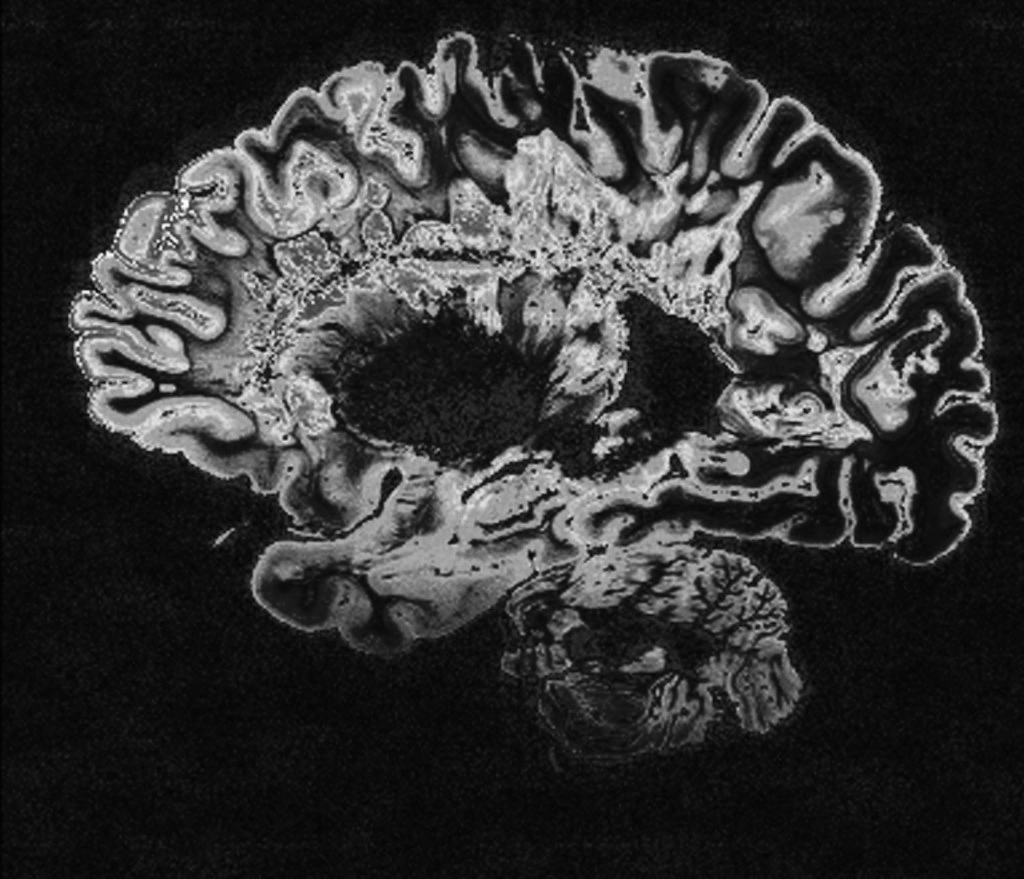
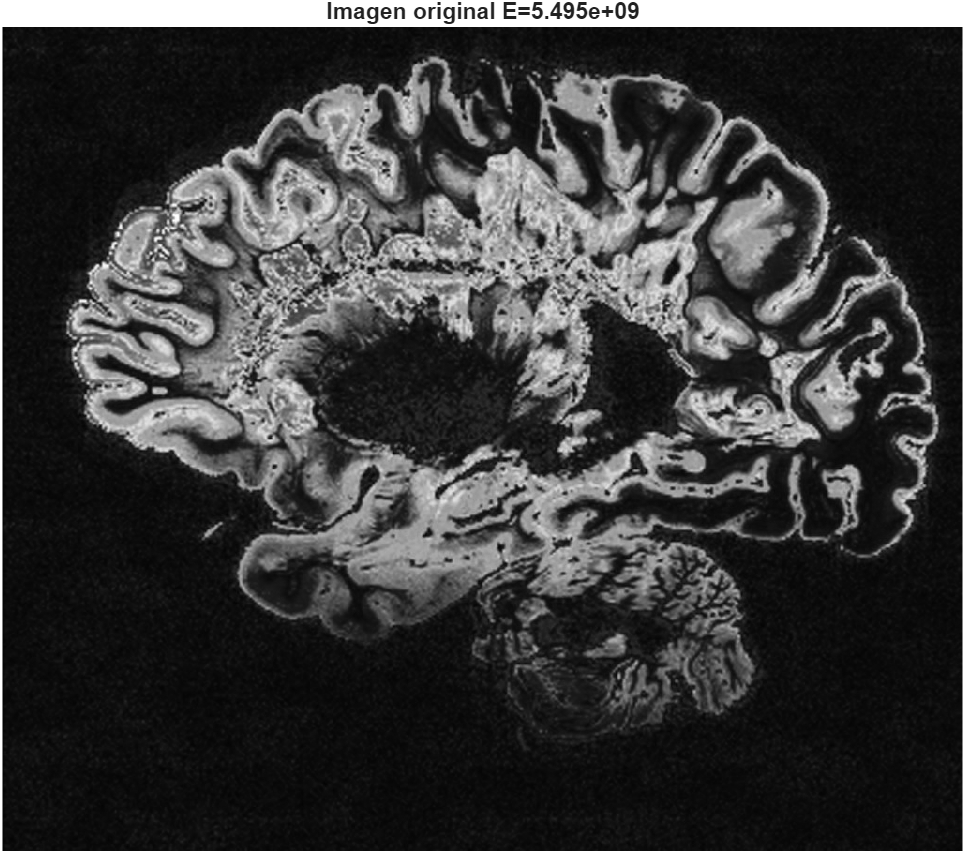
image corrections

diff --git a/ImageAnalysis/Segmentacion_Umbralizacion.md b/ImageAnalysis/Segmentacion_Umbralizacion.md
@@ -1,19 +1,24 @@
-## Segmentación básica
+# Segmentación básica
 
-### Umbralización
+## Umbralización
 
 Umbralización de imágenes es un caso particular del recorte, cuyo objetivo principal es la segregación, separación o segmentación de los dos niveles o clases de una imagen bimodal a las que solemos referirnos como frente y fondo.
 
-Objetivo: umbralizar una imagen en escala de grises que, en principio, no es bimodal, pero en la cual puede apreciarse una clase diferenciada.
+**Objetivo**: umbralizar una imagen en escala de grises que, en principio, no es bimodal, pero en la cual puede apreciarse una clase diferenciada.
 
 ``` splus
 % Cargar y representar MRI_gray.jpg con su histograma
 img = imread('Imagenes_P3\MRI_gray.jpg');
-imshow(img);
-imwrite(img, 'results/img_1.png');
-histFig = figure; imhist(img);
+E_img  = calcularEnergia(img);
+imshow(img); title(sprintf('Imagen original E=%.5g', E_img));
+exportgraphics(gcf, 'results/ej1.png', 'Resolution',150);
+
+% Histograma
+histFig = figure; imhist(img); axis('tight');
 exportgraphics(histFig, 'results/img_1_hist.png');
 ```
 
 <img src="\images3\img_1.png""/>
 <img src="\images3\img_1_hist.png""/>
+
+### Umbralización global de imágenes bimodales
